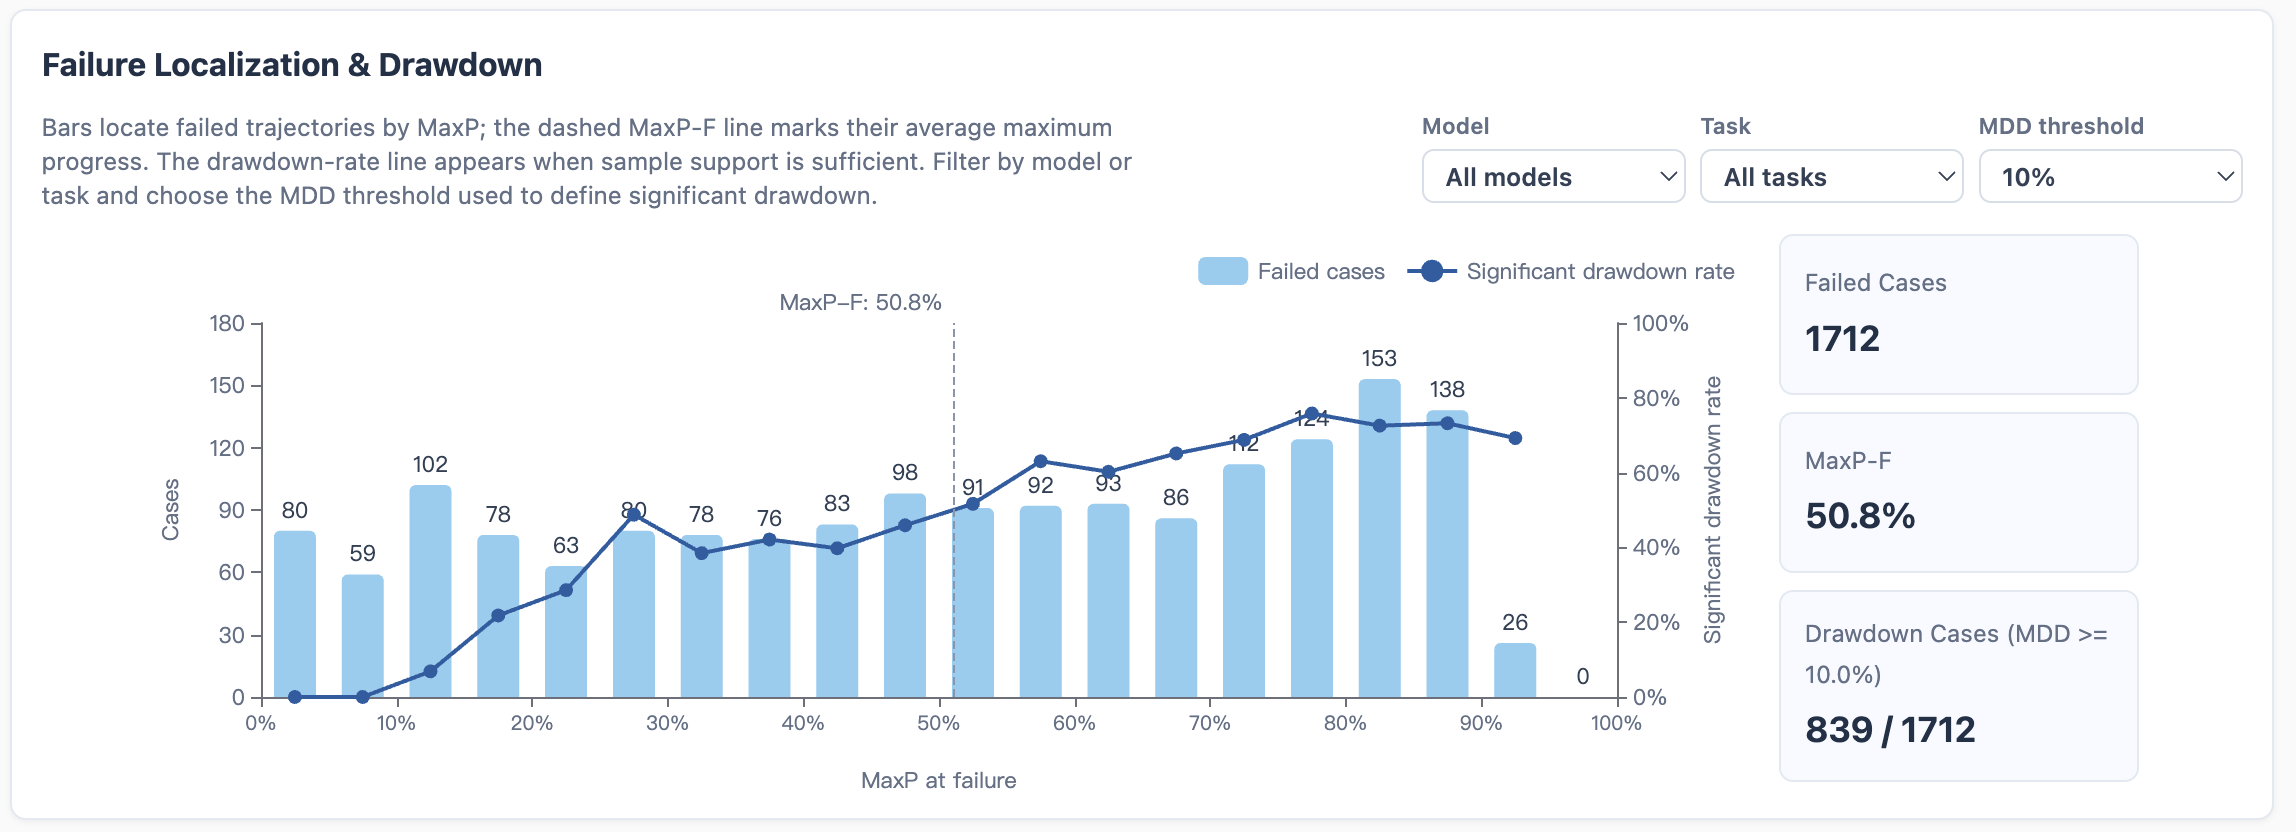
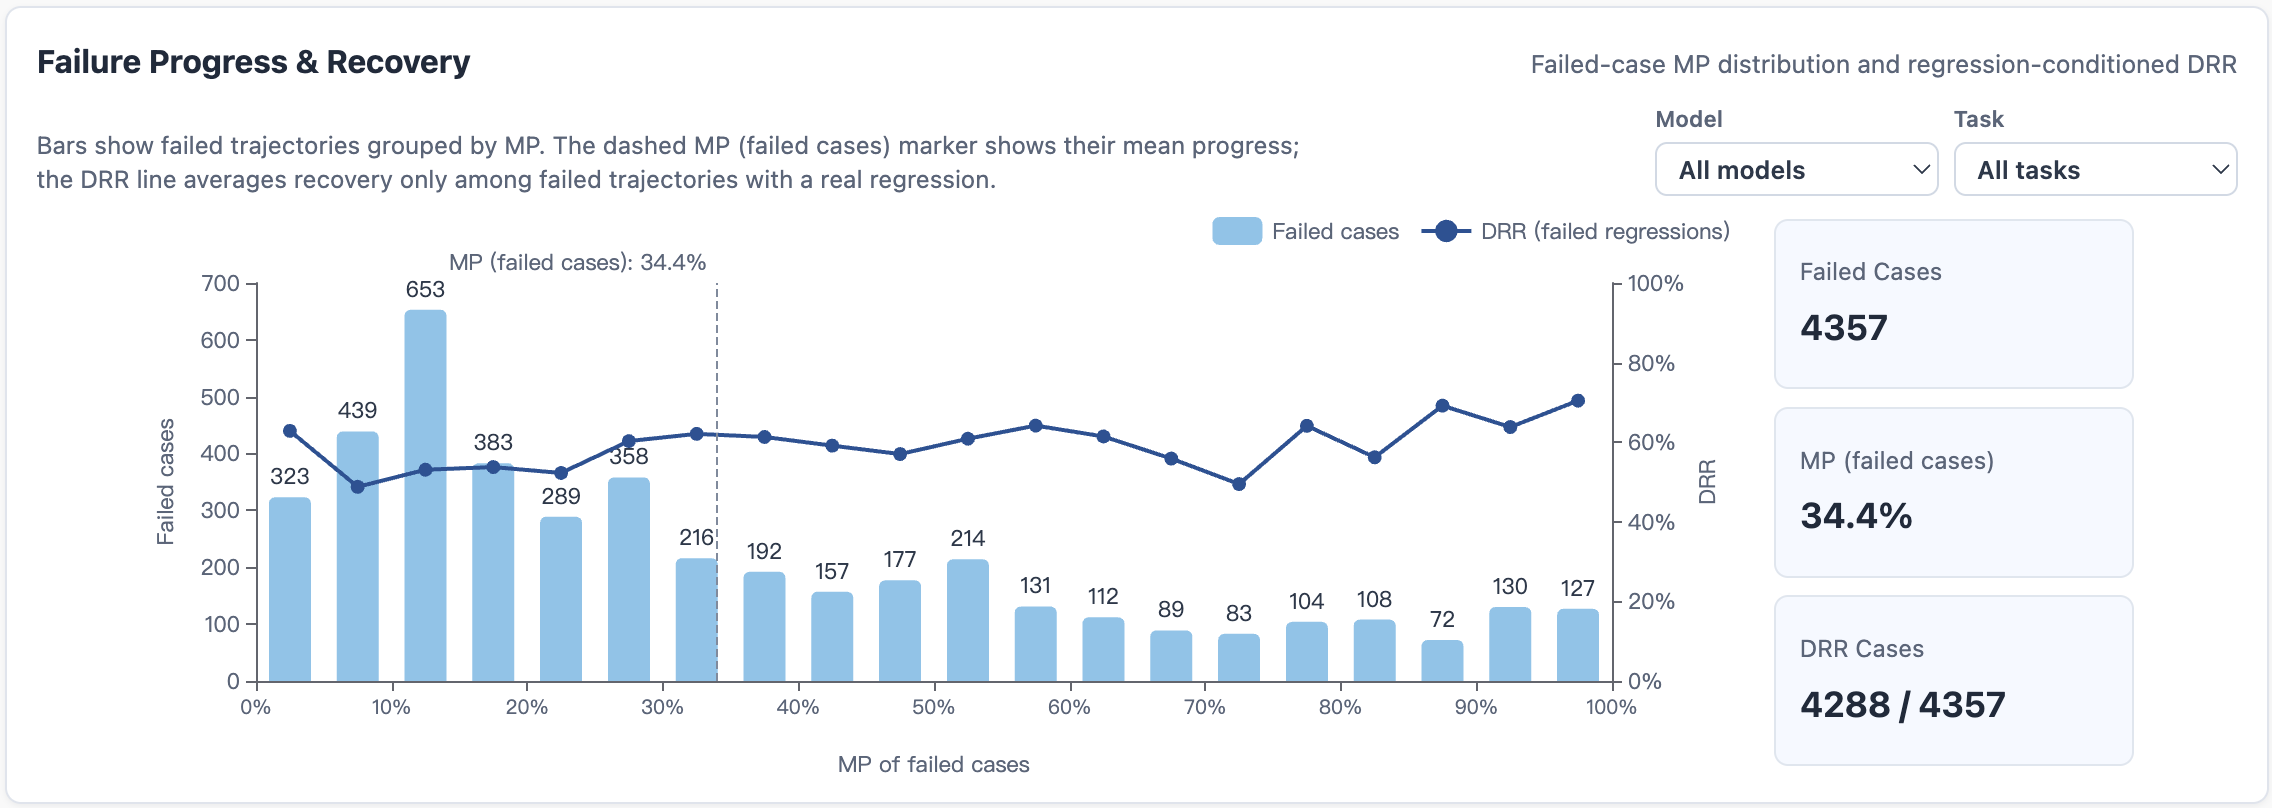
Update report visuals and repository links

diff --git a/doc.html b/doc.html
@@ -179,7 +179,7 @@
             <div class="quick-path">
               <h3>Notebook</h3>
               <p>Run the complete workflow cell by cell, inspect the cases, and open the generated report.</p>
-              <a class="button primary" href="https://github.com/Yuheng2000/PRM-as-a-Judge/blob/main/getting_started/PRM_as_a_Judge_quickstart.ipynb" target="_blank" rel="noopener noreferrer">Open the Notebook</a>
+              <a class="button primary" href="https://github.com/YuyangLiu2003/PRM-as-a-Judge/blob/main/getting_started/PRM_as_a_Judge_quickstart.ipynb" target="_blank" rel="noopener noreferrer">Open the Notebook</a>
             </div>
             <div class="quick-path">
               <h3>Command Line</h3>
@@ -193,7 +193,7 @@
           <h2>Run the Bundled Demo</h2>
 
           <h3>1. Clone the repository</h3>
-          <pre><code>git clone https://github.com/Yuheng2000/PRM-as-a-Judge.git
+          <pre><code>git clone https://github.com/YuyangLiu2003/PRM-as-a-Judge.git
 cd PRM-as-a-Judge</code></pre>
 
           <h3>2. Create and activate the environment</h3>
@@ -249,14 +249,14 @@ bash eval/run_eval.sh</code></pre>
               <a href="assets/images/report-failure-localization.webp" target="_blank" rel="noopener">
                 <img
                   src="assets/images/report-failure-localization.webp"
-                  alt="Failure Localization and Drawdown chart showing where failed rollouts stopped and their drawdown rate"
+                  alt="Failure Progress and Recovery chart showing failed-trajectory MP distribution and regression-conditioned DRR"
                   loading="lazy"
-                  width="2296"
-                  height="832">
+                  width="2272"
+                  height="808">
               </a>
               <figcaption>
-                <strong>Failure localization and drawdown.</strong> Inspect where failed rollouts
-                stopped, their average MaxP-F, and the significant-drawdown rate.
+                <strong>Failure progress and recovery.</strong> Inspect how far failed trajectories
+                progressed and how well they recovered after a real regression.
               </figcaption>
             </figure>
 
@@ -266,8 +266,8 @@ bash eval/run_eval.sh</code></pre>
                   src="assets/images/report-trajectory-explorer.webp"
                   alt="Interactive trajectory explorer showing a rollout video, progress curve, and case metrics"
                   loading="lazy"
-                  width="1600"
-                  height="955">
+                  width="2042"
+                  height="1464">
               </a>
               <figcaption>
                 <strong>Interactive trajectory explorer.</strong> Inspect rollout videos together
@@ -277,7 +277,7 @@ bash eval/run_eval.sh</code></pre>
           </div>
 
           <p>
-            The report also supports failure localization and drawdown analysis, together with
+            The report also supports failure progress and recovery analysis, together with
             case-level inspection in the interactive trajectory explorer. See the
             <a href="advanced.html#outputs">Advanced Guide</a> for the complete visualization reference.
           </p>
@@ -300,9 +300,9 @@ bash eval/run_eval.sh</code></pre>
           <h2>WeChat Community</h2>
           <p>Join the group to discuss setup, evaluation, and rollout analysis with the community.</p>
           <div class="community-card">
-            <a href="https://github.com/Yuheng2000/PRM-as-a-Judge#wechat-community" target="_blank" rel="noopener noreferrer">
+            <a href="https://github.com/YuyangLiu2003/PRM-as-a-Judge#wechat-community" target="_blank" rel="noopener noreferrer">
               <img
-                src="https://raw.githubusercontent.com/Yuheng2000/PRM-as-a-Judge/main/figs/weixin.jpg"
+                src="https://raw.githubusercontent.com/YuyangLiu2003/PRM-as-a-Judge/main/figs/weixin.jpg"
                 alt="WeChat group QR code"
                 loading="lazy">
             </a>
@@ -319,7 +319,7 @@ bash eval/run_eval.sh</code></pre>
             <div class="quick-path">
               <h3>Notebook</h3>
               <p>逐单元运行完整流程，检查示例案例，并打开生成的报告。</p>
-              <a class="button primary" href="https://github.com/Yuheng2000/PRM-as-a-Judge/blob/main/getting_started/PRM_as_a_Judge_quickstart.ipynb" target="_blank" rel="noopener noreferrer">打开 Notebook</a>
+              <a class="button primary" href="https://github.com/YuyangLiu2003/PRM-as-a-Judge/blob/main/getting_started/PRM_as_a_Judge_quickstart.ipynb" target="_blank" rel="noopener noreferrer">打开 Notebook</a>
             </div>
             <div class="quick-path">
               <h3>命令行</h3>
@@ -333,7 +333,7 @@ bash eval/run_eval.sh</code></pre>
           <h2>运行仓库内示例</h2>
 
           <h3>1. 克隆仓库</h3>
-          <pre><code>git clone https://github.com/Yuheng2000/PRM-as-a-Judge.git
+          <pre><code>git clone https://github.com/YuyangLiu2003/PRM-as-a-Judge.git
 cd PRM-as-a-Judge</code></pre>
 
           <h3>2. 创建并激活环境</h3>
@@ -386,13 +386,13 @@ bash eval/run_eval.sh</code></pre>
               <a href="assets/images/report-failure-localization.webp" target="_blank" rel="noopener">
                 <img
                   src="assets/images/report-failure-localization.webp"
-                  alt="展示失败轨迹停止位置、平均 MaxP-F 和显著回撤率的失败定位与回撤报告"
+                  alt="展示失败轨迹 MP 分布、平均 MP 和回退后恢复程度的失败进度与恢复报告"
                   loading="lazy"
-                  width="2296"
-                  height="832">
+                  width="2272"
+                  height="808">
               </a>
               <figcaption>
-                <strong>失败定位与回撤。</strong>查看失败轨迹停止的位置、平均 MaxP-F 和显著回撤率。
+                <strong>失败轨迹的进度与恢复。</strong>查看失败轨迹推进到何种程度，以及发生真实回退后恢复得如何。
               </figcaption>
             </figure>
 
@@ -402,8 +402,8 @@ bash eval/run_eval.sh</code></pre>
                   src="assets/images/report-trajectory-explorer.webp"
                   alt="同时展示执行视频、进度曲线和单案例指标的交互式轨迹查看器"
                   loading="lazy"
-                  width="1600"
-                  height="955">
+                  width="2042"
+                  height="1464">
               </a>
               <figcaption>
                 <strong>交互式轨迹查看器。</strong>同步查看执行视频、进度曲线、实时帧数值、单案例指标和里程碑。
@@ -412,7 +412,7 @@ bash eval/run_eval.sh</code></pre>
           </div>
 
           <p>
-            报告还支持失败定位与回撤分析，以及通过交互式轨迹查看器逐案例检查执行过程。更多可视化模块和使用说明见<a href="advanced.html#zh-outputs">高级指南</a>。
+            报告还支持失败轨迹的进度与恢复分析，以及通过交互式轨迹查看器逐案例检查执行过程。更多可视化模块和使用说明见<a href="advanced.html#zh-outputs">高级指南</a>。
           </p>
 
           <h3>7. 评测自己的轨迹</h3>
@@ -433,9 +433,9 @@ bash eval/run_eval.sh</code></pre>
           <h2>微信群</h2>
           <p>欢迎加入微信群，与社区交流环境配置、评测和轨迹分析问题。</p>
           <div class="community-card">
-            <a href="https://github.com/Yuheng2000/PRM-as-a-Judge#wechat-community" target="_blank" rel="noopener noreferrer">
+            <a href="https://github.com/YuyangLiu2003/PRM-as-a-Judge#wechat-community" target="_blank" rel="noopener noreferrer">
               <img
-                src="https://raw.githubusercontent.com/Yuheng2000/PRM-as-a-Judge/main/figs/weixin.jpg"
+                src="https://raw.githubusercontent.com/YuyangLiu2003/PRM-as-a-Judge/main/figs/weixin.jpg"
                 alt="微信群二维码"
                 loading="lazy">
             </a>

diff --git a/advanced.html b/advanced.html
@@ -485,21 +485,6 @@
             </figure>
 
             <figure class="report-shot">
-              <a href="assets/images/report-metric-results.webp" target="_blank" rel="noopener">
-                <img
-                  src="assets/images/report-metric-results.webp"
-                  alt="Metric Results dashboard showing Milestone Reachability and OAS Contribution charts"
-                  loading="lazy"
-                  width="2286"
-                  height="1162">
-              </a>
-              <figcaption>
-                <strong>Metric results.</strong> An example completed-run report comparing milestone
-                reachability and the weighted contributions to OAS across evaluated models.
-              </figcaption>
-            </figure>
-
-            <figure class="report-shot">
               <a href="assets/images/report-conditional-profile.webp" target="_blank" rel="noopener">
                 <img
                   src="assets/images/report-conditional-profile.webp"
@@ -519,15 +504,15 @@
               <a href="assets/images/report-failure-localization.webp" target="_blank" rel="noopener">
                 <img
                   src="assets/images/report-failure-localization.webp"
-                  alt="Failure Localization and Drawdown chart with a MaxP-at-failure distribution and significant-drawdown rate"
+                  alt="Failure Progress and Recovery chart showing failed-trajectory MP distribution and regression-conditioned DRR"
                   loading="lazy"
-                  width="2296"
-                  height="832">
+                  width="2272"
+                  height="808">
               </a>
               <figcaption>
-                <strong>Failure localization and drawdown.</strong> Filter by model and task to inspect
-                where failed trajectories stopped, their average MaxP-F, and the significant-drawdown
-                rate at the selected MDD threshold.
+                <strong>Failure progress and recovery.</strong> Filter by model and task to inspect the
+                MP distribution and mean MP of failed trajectories, together with DRR computed over
+                failed trajectories that contain a real regression.
               </figcaption>
             </figure>
 
@@ -537,8 +522,8 @@
                   src="assets/images/report-trajectory-explorer.webp"
                   alt="Interactive trajectory explorer showing a rollout video, progress curve, and case metrics"
                   loading="lazy"
-                  width="1600"
-                  height="955">
+                  width="2042"
+                  height="1464">
               </a>
               <figcaption>
                 <strong>Interactive trajectory explorer.</strong> Inspect the rollout video together with
@@ -1366,20 +1351,6 @@ prm-judge eval --manifest cases.jsonl --visualize</code></pre>
             </figure>
 
             <figure class="report-shot">
-              <a href="assets/images/report-metric-results.webp" target="_blank" rel="noopener">
-                <img
-                  src="assets/images/report-metric-results.webp"
-                  alt="同时展示里程碑达成情况和 OAS 指标贡献的 Metric Results 报告"
-                  loading="lazy"
-                  width="2286"
-                  height="1162">
-              </a>
-              <figcaption>
-                <strong>指标结果。</strong>一次完整评测运行的示例报告，用于比较不同模型的里程碑达成情况以及各项指标对 OAS 的加权贡献。
-              </figcaption>
-            </figure>
-
-            <figure class="report-shot">
               <a href="assets/images/report-conditional-profile.webp" target="_blank" rel="noopener">
                 <img
                   src="assets/images/report-conditional-profile.webp"
@@ -1397,13 +1368,13 @@ prm-judge eval --manifest cases.jsonl --visualize</code></pre>
               <a href="assets/images/report-failure-localization.webp" target="_blank" rel="noopener">
                 <img
                   src="assets/images/report-failure-localization.webp"
-                  alt="展示失败位置分布和显著回撤率的 Failure Localization and Drawdown 报告"
+                  alt="展示失败轨迹 MP 分布、平均 MP 和回退后恢复程度的 Failure Progress and Recovery 报告"
                   loading="lazy"
-                  width="2296"
-                  height="832">
+                  width="2272"
+                  height="808">
               </a>
               <figcaption>
-                <strong>失败定位与回撤。</strong>按模型和任务筛选，查看失败轨迹停止的位置、平均 MaxP-F，以及所选 MDD 阈值下的显著回撤率。
+                <strong>失败轨迹的进度与恢复。</strong>按模型和任务筛选，查看失败轨迹的 MP 分布与平均 MP，以及仅在发生真实回退的失败轨迹上计算的 DRR。
               </figcaption>
             </figure>
 
@@ -1413,8 +1384,8 @@ prm-judge eval --manifest cases.jsonl --visualize</code></pre>
                   src="assets/images/report-trajectory-explorer.webp"
                   alt="同时展示执行视频、进度曲线和单案例指标的交互式轨迹查看器"
                   loading="lazy"
-                  width="1600"
-                  height="955">
+                  width="2042"
+                  height="1464">
               </a>
               <figcaption>
                 <strong>交互式轨迹查看器。</strong>同步查看执行视频、进度曲线、实时帧数值、单案例指标和里程碑。

diff --git a/blog-introducing-prm-as-a-judge.html b/blog-introducing-prm-as-a-judge.html
@@ -2421,7 +2421,7 @@
             <span class="meta-chip"><span class="chip-key">Published</span><span class="chip-value">March 23, 2026</span></span>
             <span class="meta-chip"><span class="chip-key">Updated</span><span class="chip-value">March 30, 2026</span></span>
             <a class="meta-chip chip-link" href="https://arxiv.org/abs/2603.21669" target="_blank" rel="noopener noreferrer"><span class="chip-key">Report</span><span class="chip-value">2603.21669</span></a>
-            <a class="meta-chip chip-link" href="https://github.com/Yuheng2000/PRM-as-a-Judge" target="_blank" rel="noopener noreferrer"><span class="chip-key">Repository</span><span class="chip-value">PRM-as-a-Judge</span></a>
+            <a class="meta-chip chip-link" href="https://github.com/YuyangLiu2003/PRM-as-a-Judge" target="_blank" rel="noopener noreferrer"><span class="chip-key">Repository</span><span class="chip-value">PRM-as-a-Judge</span></a>
             <a class="meta-chip chip-link" href="https://huggingface.co/datasets/yuheng2000/RoboPulse" target="_blank" rel="noopener noreferrer"><span class="chip-key">Benchmark</span><span class="chip-value">RoboPulse</span></a>
             <span class="meta-chip"><span class="chip-key">By</span><span class="chip-value">PRM-as-a-Judge Team</span></span>
           </div>
@@ -2429,7 +2429,7 @@
           <div class="hero-cta-links" aria-label="Primary actions">
             <a class="hero-cta hero-cta-primary" href="https://arxiv.org/abs/2603.21669" target="_blank" rel="noopener noreferrer">Read paper</a>
             <a class="hero-cta hero-cta-secondary" href="#interactive-trajectory-explorer">Jump to explorer</a>
-            <a class="hero-cta hero-cta-secondary" href="https://github.com/Yuheng2000/PRM-as-a-Judge" target="_blank" rel="noopener noreferrer">View code</a>
+            <a class="hero-cta hero-cta-secondary" href="https://github.com/YuyangLiu2003/PRM-as-a-Judge" target="_blank" rel="noopener noreferrer">View code</a>
           </div>
 
           <div class="tldr-card">

diff --git a/blog-introducing-prm-as-a-judge-1.5.html b/blog-introducing-prm-as-a-judge-1.5.html
@@ -2707,7 +2707,7 @@
           <div class="metadata-chips" aria-label="Publication metadata">
             <span class="meta-chip"><span class="chip-key">Published</span><span class="chip-value">August 16, 2026</span></span>
             <a class="meta-chip chip-link" href="" target="_blank"><span class="chip-key">Report</span><span class="chip-value">PRM-as-a-Judge 1.5</span></a>
-            <a class="meta-chip chip-link" href="https://github.com/Yuheng2000/PRM-as-a-Judge" target="_blank" rel="noopener noreferrer"><span class="chip-key">Repository</span><span class="chip-value">PRM-as-a-Judge</span></a>
+            <a class="meta-chip chip-link" href="https://github.com/YuyangLiu2003/PRM-as-a-Judge" target="_blank" rel="noopener noreferrer"><span class="chip-key">Repository</span><span class="chip-value">PRM-as-a-Judge</span></a>
             <span class="meta-chip"><span class="chip-key">Benchmark</span><span class="chip-value">RoboPulse++</span></span>
             <span class="meta-chip"><span class="chip-key">By</span><span class="chip-value">PRM-as-a-Judge Team</span></span>
           </div>
@@ -2715,7 +2715,7 @@
           <div class="hero-cta-links" aria-label="Primary actions">
             <a class="hero-cta hero-cta-primary" href="" target="_blank">Read report</a>
             <a class="hero-cta hero-cta-secondary" href="#interactive-trajectory-explorer">Jump to explorer</a>
-            <a class="hero-cta hero-cta-secondary" href="https://github.com/Yuheng2000/PRM-as-a-Judge" target="_blank" rel="noopener noreferrer">View code</a>
+            <a class="hero-cta hero-cta-secondary" href="https://github.com/YuyangLiu2003/PRM-as-a-Judge" target="_blank" rel="noopener noreferrer">View code</a>
           </div>
 
           <div class="tldr-card">

diff --git a/index.html b/index.html
@@ -265,9 +265,9 @@
     <section class="home-section home-community" id="wechat-community">
       <h2>WeChat Community</h2>
       <div class="home-community-card">
-        <a href="https://github.com/Yuheng2000/PRM-as-a-Judge#wechat-community" target="_blank" rel="noopener noreferrer">
+        <a href="https://github.com/YuyangLiu2003/PRM-as-a-Judge#wechat-community" target="_blank" rel="noopener noreferrer">
           <img
-            src="https://raw.githubusercontent.com/Yuheng2000/PRM-as-a-Judge/main/figs/weixin.jpg"
+            src="https://raw.githubusercontent.com/YuyangLiu2003/PRM-as-a-Judge/main/figs/weixin.jpg"
             alt="WeChat group QR code"
             loading="lazy">
         </a>
